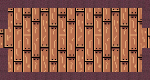
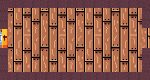
added keys dropping from monsters

Changed region(s): [[0.0, 0.35, 0.0533, 0.6]]

diff --git a/Overworld.py b/Overworld.py
@@ -74,7 +74,6 @@ class Overworld(Room):
         self.obstacle18 = Obstacles("test_object1.png", screen_width-600, 290, 600, 200)
         self.block_key = Obstacles("test_object1.png", 0, 0, screen_width, 150)
         self.cricketroom3.add_obstacles([self.obstacle7, self.obstacle8, self.obstacle17, self.obstacle16, self.obstacle18, self.block_key])
-        self.cricketroom2.add_key(Key(self.cricketroom3, 800, 400, 800, 100))
 
         self.cricketroom4 = Biome("cricketroom4", "floor1/cricketroom4.png", [Exit(800, screen_height, self.cricketroom3, "down", self.V_width, self.down_height)], [], False)
         self.cricketroom4.add_obstacles([self.obstacle7, self.obstacle8, self.obstacle9, self.obstacle14, self.obstacle15, self.obstacle16])
@@ -127,7 +126,7 @@ class Overworld(Room):
         self.cricketroom3.add_monsters([npc_cricker_player_7])
         
         
-        
+        self.floor1rooms = [self.room1, self.room2, self.cricketroom1, self.cricketroom2, self.cricketroom3, self.cricketroom4, self.cricketroom5]
         
     
         # initialize the second level
@@ -186,6 +185,7 @@ class Overworld(Room):
         auntie1 = Auntieji(1.0, 10.0, "OG Auntie", 200, 100, 0, 0)
         self.houseroom6.add_monsters([auntie1])
 
+        self.floor2rooms = [self.houseroom1, self.houseroom2, self.houseroom3, self.houseroom4, self.houseroom5, self.houseroom6, self.houseroom7]
         
         # initialize the third level
         
@@ -239,7 +239,7 @@ class Overworld(Room):
         self.galaroom4.add_exits([Exit(0, screen_height//2, self.galaroom5, "left", self.left_width, self.H_height), Exit(screen_width, screen_height//2, self.galaroom6, "right", self.right_width, self.H_height)])
         self.galaroom6.add_exits([Exit(screen_width, screen_height//2, self.galaroom7, "right", self.right_width, self.H_height)])
         
-        
+        self.floor3rooms = [self.galaroom1, self.galaroom2, self.galaroom3, self.galaroom4, self.galaroom5, self.galaroom6, self.galaroom7]
         
         
         # initialize the fourth level
@@ -312,6 +312,8 @@ class Overworld(Room):
 
         puri=Puri(10.0,"Puri", 800, 100)
         self.schoolroom2.add_monsters([puri])
+
+        self.floor4rooms = [self.schoolroom1, self.schoolroom2, self.schoolroom3, self.schoolroom4, self.schoolroom5, self.schoolroom6, self.schoolroom7, self.schoolroom8, self.schoolroom9]
         
         
     auntie_clone1 = AuntieClone(3.0, 6.0, pygame.image.load(os.path.join("Assets", "auntieclone1.png")), "auntie_clone 1", 100, 50, 0, 0)
@@ -580,5 +582,60 @@ class Overworld(Room):
         biome.render(0, 0, player, screen)
         key.render(screen)
         pygame.display.update()
-        pygame.time.wait(300)
+        pygame.time.wait(200)
+    
+    def nomonstersalive(self, biome):
+        for m in biome.monsters:
+            if m.alive:
+                return False
+        return True
+
+    def monsterkeydrop(self, player, biome):
+        for m in biome.monsters:
+            if m.alive:
+                return
+            if m.monster_type == "Mini Boss":
+                if len(player.key_inventory) == 0 and biome.name.startswith("cricket"):
+                    if random.randint(0, 9) > 7:
+                        biome.add_key(Key(self.cricketroom3, m.monster_rectangle.x, m.monster_rectangle.y, 800, 100))
+                elif len(player.key_inventory) == 0 and biome.name.startswith("house"):
+                    if random.randint(0, 9) > 7:
+                        biome.add_key(Key(self.houseroom4, m.monster_rectangle.x, m.monster_rectangle.y, 800, 100))
+                elif len(player.key_inventory) == 0 and biome.name.startswith("gala"):
+                    if random.randint(0, 9) > 7:
+                        biome.add_key(Key(self.galaroom4, m.monster_rectangle.x, m.monster_rectangle.y, 1400, 400))
+                elif len(player.key_inventory) == 0 and biome.name.startswith("schoolroom6"):
+                    if random.randint(0, 9) > 7:
+                        biome.add_key(Key(self.schoolroom7, m.monster_rectangle.x, m.monster_rectangle.y, 1400, 400))
+                elif len(player.key_inventory) == 0 and biome.name.startswith("school"):
+                    if random.randint(0, 9) > 7:
+                        biome.add_key(Key(self.schoolroom3, m.monster_rectangle.x, m.monster_rectangle.y, 100, 400))
+            else:
+                if biome.name.startswith("cricket"):
+                    biome.add_key(Key(self.cricketroom4, m.monster_rectangle.x, m.monster_rectangle.y, 800, 100))
+                elif biome.name.startswith("house"):
+                    biome.add_key(Key(self.houseroom6, m.monster_rectangle.x, m.monster_rectangle.y, 100, 400))
+                elif biome.name.startswith("gala"):
+                    biome.add_key(Key(self.galaroom6, m.monster_rectangle.x, m.monster_rectangle.y, 1400, 400))
+
+
+    def keydrop(self, player, biome):
+        if biome in self.floor1rooms:
+            if biome.name == "cricketroom1" or biome.name == "cricketroom2" or biome.name == "cricketroom3":
+                if self.nomonstersalive(self.cricketroom1) and self.nomonstersalive(self.cricketroom2) and self.nomonstersalive(self.cricketroom3):
+                    biome.add_key(Key(self.cricketroom3, player.player_rectangle.x, player.player_rectangle.y, 800, 100))
+            elif biome.name == "houseroom1" or biome.name == "houseroom2" or biome.name == "houseroom3" or biome.name == "houseroom4":
+                if self.nomonstersalive(self.houseroom1) and self.nomonstersalive(self.houseroom2) and self.nomonstersalive(self.houseroom3) and self.nomonstersalive(self.houseroom4):
+                    biome.add_key(Key(self.houseroom4, player.player_rectangle.x, player.player_rectangle.y, 800, 100))
+            elif biome.name == "galaroom1" or biome.name == "galaroom2" or biome.name == "galaroom3" or biome.name == "galaroom4":
+                if self.nomonstersalive(self.galaroom1) and self.nomonstersalive(self.galaroom2) and self.nomonstersalive(self.galaroom3) and self.nomonstersalive(self.galaroom4):
+                    biome.add_key(Key(self.galaroom4, player.player_rectangle.x, player.player_rectangle.y, 1400, 400))
+            elif biome.name == "schoolroom1" or biome.name == "schoolroom2" or biome.name == "schoolroom3" or biome.name == "schoolroom4" or biome.name == "schoolroom5" or biome.name == "schoolroom7":
+                if self.nomonstersalive(self.schoolroom1) and self.nomonstersalive(self.schoolroom2) and self.nomonstersalive(self.schoolroom3) and self.nomonstersalive(self.schoolroom4) and self.nomonstersalive(self.schoolroom5) and self.nomonstersalive(self.schoolroom7):
+                    biome.add_key(Key(self.schoolroom3, player.player_rectangle.x, player.player_rectangle.y, 100, 400))
+            elif biome.name == "schoolroom6":
+                if self.nomonstersalive(self.schoolroom6):
+                    biome.add_key(Key(self.schoolroom7, player.player_rectangle.x, player.player_rectangle.y, 1400, 400))
+
+
         

diff --git a/Main5.py b/Main5.py
@@ -171,6 +171,7 @@ def init_home_screen():
         overworld.picksupitems(player1, curr_screen)
         overworld.pickupkeys(player1, curr_screen)
         overworld.unlockroom(player1, curr_screen, screen)
+        overworld.keydrop(player1, curr_screen)
 
         curr_screen.render(curr_screen_x_pos, curr_screen_y_pos, player1, screen)
         
@@ -267,6 +268,7 @@ def init_home_screen():
                 pygame.quit()
                 sys.exit()
 
+        overworld.monsterkeydrop(player1, curr_screen)
         player1.handlemove(direction, framecounter, firstchange)
         player1.renderhealth(10, 10, screen)
         firstchange = False

diff --git a/MediumBoss.py b/MediumBoss.py
@@ -6,7 +6,7 @@ import Constants
 class MediumBoss(Monster):
 
     def __init__(self, attack_power:float, health:float, img:pygame.image, medium_boss_name:str, start_pos_x:int, start_pos_y:int, height:int, width:int, attacks, proj_img, proj_height, proj_width):
-        super().__init__(attack_power, health, img, medium_boss_name, start_pos_x, start_pos_y, height, width, proj_img, proj_height, proj_width)
+        super().__init__(attack_power, health, img, "Medium Boss", start_pos_x, start_pos_y, height, width, proj_img, proj_height, proj_width)
         
         self.medium_boss_name=medium_boss_name
         self.projectile_change_x=0.0

diff --git a/Biome.py b/Biome.py
@@ -8,6 +8,7 @@ from Monster import *
 from items.Ladoo import *
 from items.Ingredient import *
 from Auntieji import *
+from items.Key import *
 
 class Biome(Room):
     
